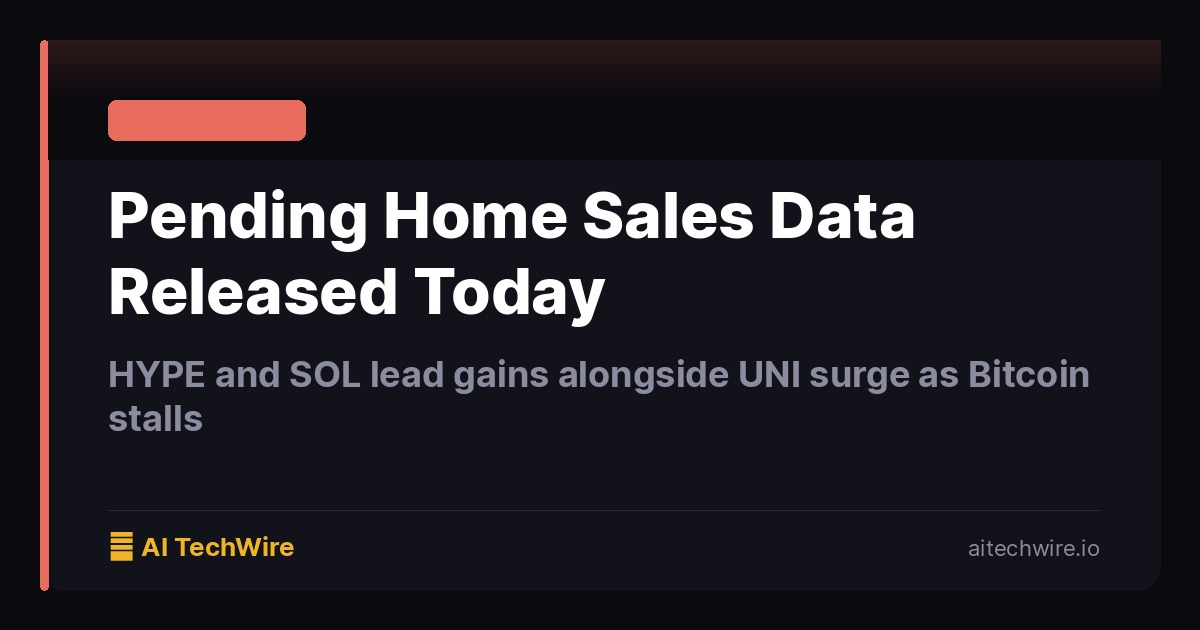
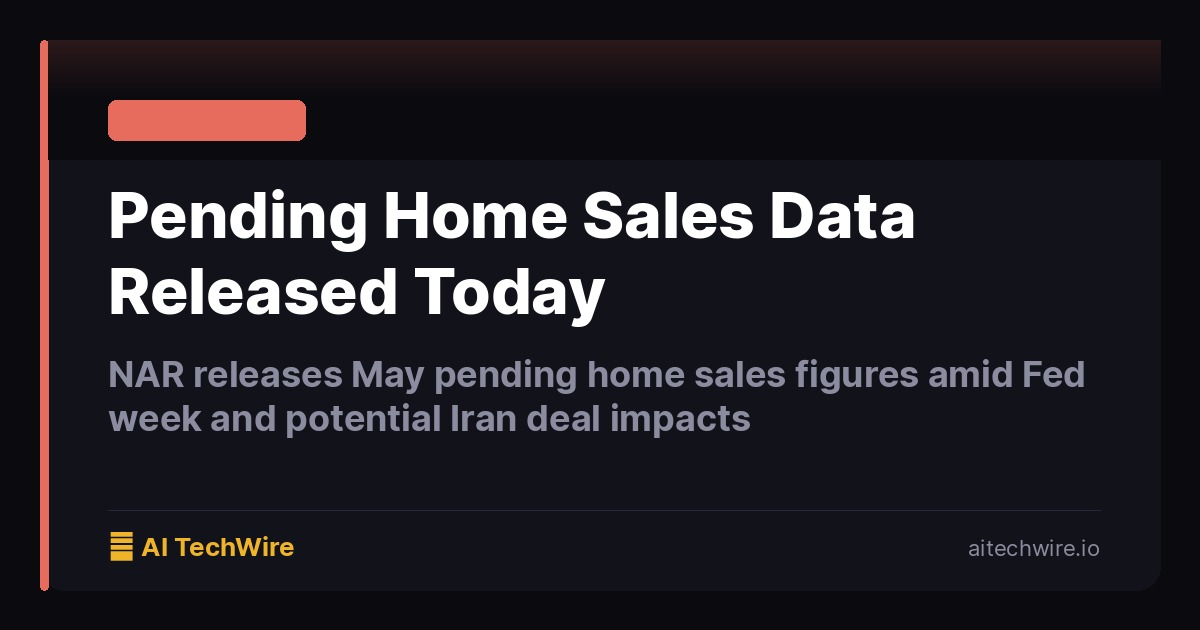
fix: regenerate OG image for real-estate article with correct summary (was showing crypto content)

Changed region(s): [[0.0925, 0.573, 0.925, 0.6937]]

diff --git a/real-estate/2026-06-17-pending-home-sales-data-released-today.html b/real-estate/2026-06-17-pending-home-sales-data-released-today.html
@@ -7,8 +7,6 @@
   <meta name="description" content="NAR releases May pending home sales figures amid Fed week and potential Iran deal impacts. Mortgage rates eyed for relief signals." />
   <meta property="og:title" content="Pending Home Sales Data Released Today" />
     <meta property="og:image" content="https://aitechwire.io/images/2026-06-17-pending-home-sales-data-released-today-og.jpg" />
-  <meta property="og:image:width" content="1200" />
-  <meta property="og:image:height" content="630" />
   <meta name="twitter:image" content="https://aitechwire.io/images/2026-06-17-pending-home-sales-data-released-today-og.jpg" />
   <meta name="twitter:card" content="summary_large_image" />
   <meta name="twitter:site" content="@AITechWireIO" />